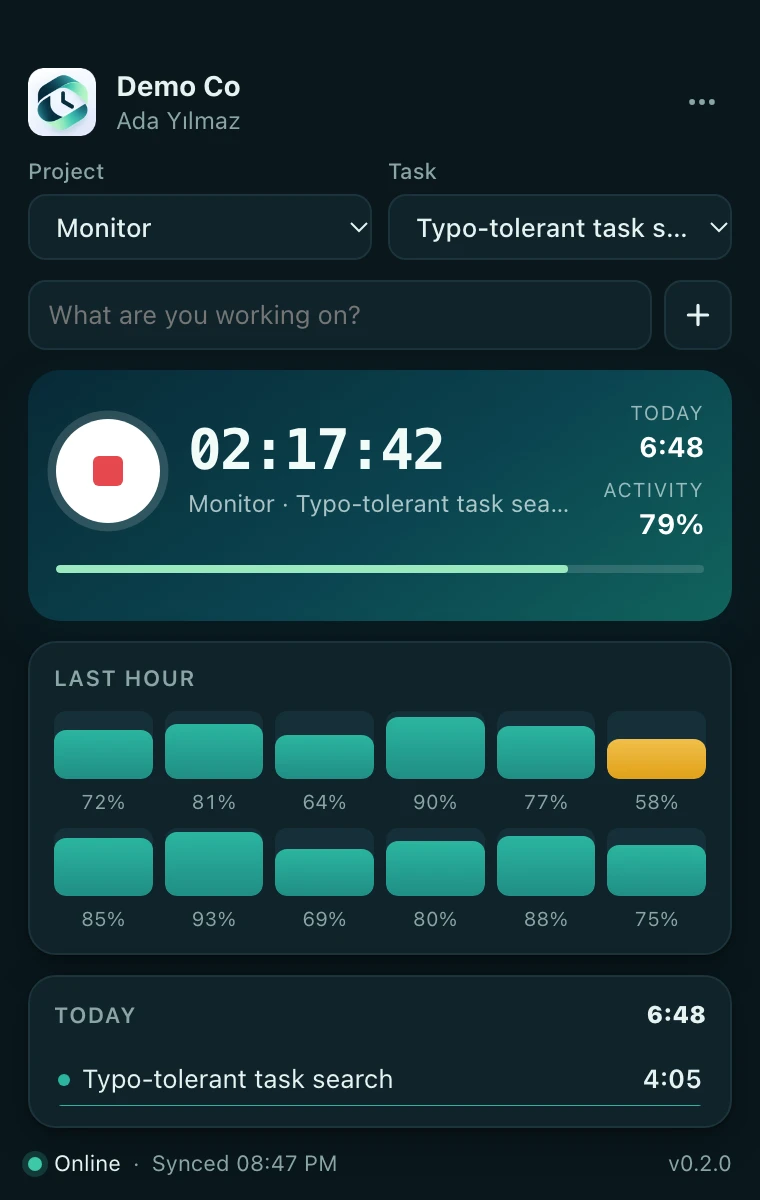
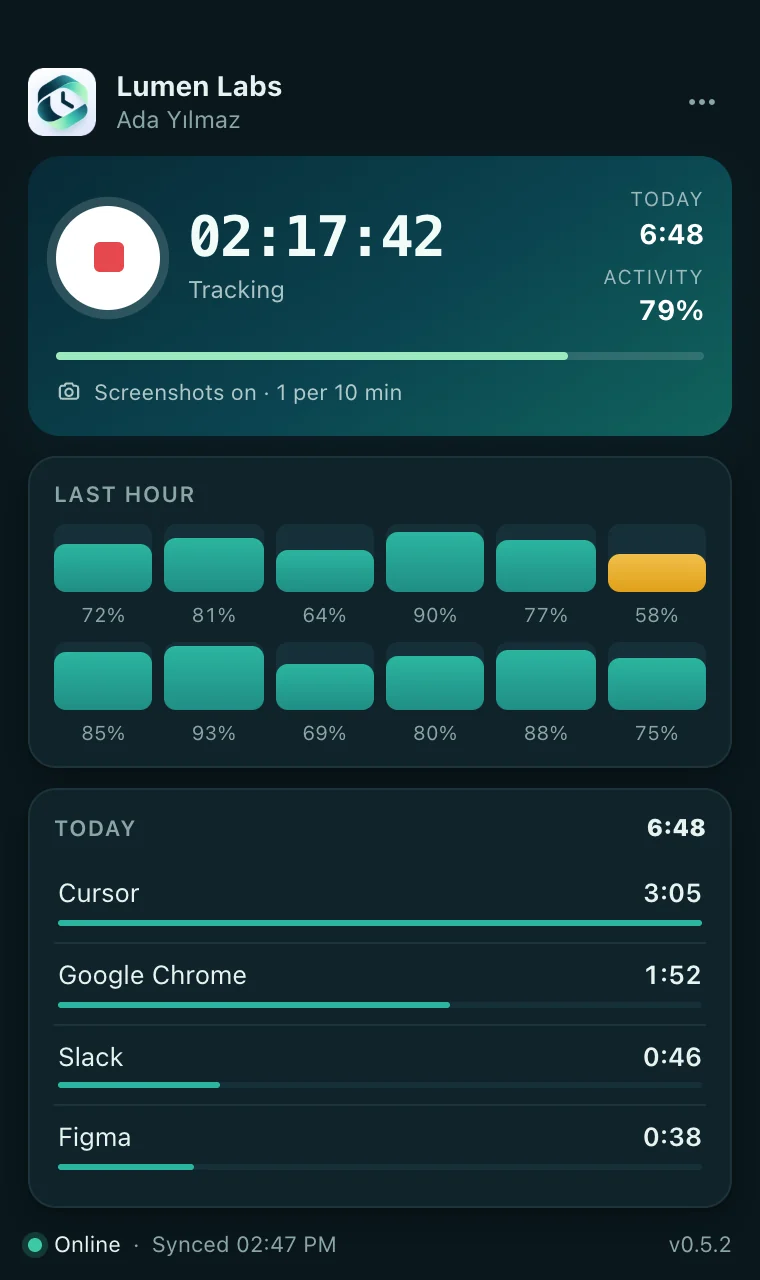
docs: product-focused README with new screenshots, Sentroy Storage and Chaby (#8)

diff --git a/README.md b/README.md
@@ -1,83 +1,128 @@
 <div align="center">
 
-<img src=".github/readme/icon.png" alt="" width="104">
+<img src=".github/readme/icon.png" alt="" width="96">
 
 # Sentroy Monitor
 
-### Time tracking your team can read, and nothing it shouldn't.
+**Open-source time and screen activity tracking for your team.**
 
-Start the timer and the tray app records time and an activity percentage. The web app turns
-that into timelines and reports. It never records keystrokes, window titles or what's on a page.
+See who is working on what, for how long, and how active the day was: in one timeline,
+with screenshots and reports, on your own server or ours.
 
-[**Download**](https://github.com/Sentroy-Co/sentroy-monitor-desktop/releases/latest) · [**Open the web app**](https://monitor.sentroy.com) · [**Self-host**](server/README.md) · [**Sentroy**](https://sentroy.com)
+[**Download**](https://github.com/Sentroy-Co/sentroy-monitor-desktop/releases/latest) · [**Open the web app**](https://monitor.sentroy.com) · [**Self-host**](server/README.md)
 
 <br>
 
-<img src=".github/readme/timeline.webp" alt="Timeline: ten-minute blocks with activity and the apps in use" width="70%">&nbsp;&nbsp;<img src=".github/readme/agent.webp" alt="Desktop agent with a running timer and the last hour of activity" width="26%">
+<img src=".github/readme/timeline.webp" alt="Timeline of a work day: ten-minute blocks with screenshots, activity and the apps in use" width="100%">
 
 </div>
 
----
+## Features
 
-### Get the app
+<table>
+<tr>
+<td width="62%" valign="top">
 
-| | Download | Notes |
-|---|---|---|
-| **macOS** | [`.dmg`](https://github.com/Sentroy-Co/sentroy-monitor-desktop/releases/latest) | Universal (Apple silicon + Intel), signed and notarized |
-| **Windows** | [`.exe` / `.msi`](https://github.com/Sentroy-Co/sentroy-monitor-desktop/releases/latest) | Windows 10 and 11, x64 |
-| **Linux** | [`.AppImage` / `.deb`](https://github.com/Sentroy-Co/sentroy-monitor-desktop/releases/latest) | Full tracking on X11; time only on Wayland |
+**⏱ Time tracking with one button.** Team members start and stop the timer in a small desktop app
+for macOS, Windows and Linux. Stepping away or ending the day takes one click, with an optional note.
 
-Sign in through your browser with a short code, so your password never goes into the app. Updates
-install with one click; the app never restarts on its own while you're tracking.
+**📸 Screenshots, done respectfully.** Turn them on per workspace, choose how often, and blur them on
+the computer before upload. People get a notice every time. Several displays become one image.
 
-### What it sees
+**📊 Timeline and reports.** Every ten minutes of the day with activity, apps and websites.
+Weekly charts, time per person, clock-in and clock-out times with averages, and CSV export.
 
-|  | Recorded | Never recorded |
-|---|---|---|
-| **Time** | Only while *you* have started the timer | Anything after you stop it |
-| **Input** | How many seconds had keyboard or mouse input | Which keys, what you typed, where you clicked |
-| **Apps** | The name of the app in front ("Figma") | Window titles, file names, documents |
-| **Websites** | Only if your company turns it on: the site name of the tab in front ("github.com"), on macOS | Pages, searches, anything on the page |
-| **Screen** | Screenshots, only if your company turns them on: you get a notice every time, and they can be blurred on your computer before upload. With several displays, one screenshot shows all of them side by side | Anything when screenshots are off (the default) |
+**🖥 Apps and websites.** See which apps were in front and, if you turn it on, which sites (by
+domain only). Never keystrokes, window titles or page contents.
 
-The agent needs no Accessibility or Input Monitoring permission. Data waits on disk while you're
-offline and syncs when you're back. [The full detail →](docs/PRIVACY.md)
+**🔒 Private by design.** Tracking runs only while the timer is on. Data waits on the computer
+while offline and syncs later. [What is recorded →](docs/PRIVACY.md)
 
-### The web app
+**🌍 Six languages.** English, Türkçe, Русский, 中文, Español and Bahasa Indonesia, in the apps and in
+notifications.
 
-- **Timeline**: every ten minutes of the day, with activity and the apps in use.
-- **Reports**: time by person and day, with CSV export.
-- **Settings**: screenshots on or off, how often, blur, idle limit, and how long data is kept.
-- Available in English, Türkçe, Русский, 中文, Español and Bahasa Indonesia.
+</td>
+<td width="38%" valign="top" align="center">
 
-### Run it your way
+<img src=".github/readme/agent.webp" alt="Desktop app with a running timer, the last hour of activity and today's apps" width="100%">
 
-**Hosted**: sign in at [monitor.sentroy.com](https://monitor.sentroy.com) with your Sentroy account.
-It's free; storing screenshots uses your Sentroy Storage plan.
+</td>
+</tr>
+</table>
 
-**Self-hosted**: one `docker compose up` gives you your own users, workspaces, SSO (OpenID Connect)
-and screenshot storage: Sentroy Storage in one click, any S3-compatible bucket, Firebase Storage or a
-local volume. [Set it up →](server/README.md)
+<img src=".github/readme/reports.webp" alt="Reports: tracked time per day, activity split and working hours per person" width="100%">
 
-<details>
-<summary><b>Build from source</b></summary>
+### Works with Sentroy
+
+<table>
+<tr>
+<td width="50%" valign="top">
+
+<img src=".github/readme/storage.webp" alt="" width="28" align="left">&nbsp;**Sentroy Storage**<br clear="left">
+
+Screenshots go to your Sentroy Storage bucket, connected in one click. Prefer your own? Any
+S3-compatible bucket, Firebase Storage or a local disk works too.
+
+<img src=".github/readme/storage-card.webp" alt="Sentroy Storage connected in Monitor settings" width="100%">
+
+</td>
+<td width="50%" valign="top">
+
+<img src=".github/readme/chaby.webp" alt="" width="28" align="left">&nbsp;**Chaby**<br clear="left">
+
+Clock-ins, breaks and end-of-day reports are posted to a Chaby channel of your choice, or sent to
+any webhook (Slack-compatible, signed).
+
+<img src=".github/readme/notify-card.webp" alt="Chaby channel connected in Monitor notification settings" width="100%">
+
+</td>
+</tr>
+</table>
+
+## Quick install
+
+**Hosted (easiest).** Sign in at [monitor.sentroy.com](https://monitor.sentroy.com) with your
+Sentroy account; your workspace and Sentroy Storage are set up for you. Then everyone installs the
+desktop app:
+
+| macOS | Windows | Linux |
+|:---:|:---:|:---:|
+| [Download `.dmg`](https://github.com/Sentroy-Co/sentroy-monitor-desktop/releases/latest)<br><sub>Apple silicon + Intel</sub> | [Download `.exe`](https://github.com/Sentroy-Co/sentroy-monitor-desktop/releases/latest)<br><sub>Windows 10 and 11</sub> | [`.AppImage` / `.deb`](https://github.com/Sentroy-Co/sentroy-monitor-desktop/releases/latest)<br><sub>X11; time only on Wayland</sub> |
+
+**Self-hosted.** Your own users, workspaces and single sign-on, with MongoDB or PostgreSQL:
+
+```bash
+curl -fsSLO https://raw.githubusercontent.com/Sentroy-Co/sentroy-monitor-desktop/main/server/docker-compose.yml
+echo "MONITOR_PUBLIC_URL=https://monitor.example.com" > .env
+echo "MONITOR_ENCRYPTION_KEY=$(openssl rand -base64 32)" >> .env
+docker compose up -d
+```
+
+Open `/setup` to create the first administrator. [Full self-host guide →](server/README.md)
+
+## How it works
+
+1. **Sign in.** Open the desktop app, click **Continue with Sentroy** (or enter your server's
+   address) and confirm the short code in your browser. Your password never goes into the app.
+2. **Start the timer.** The app records time, activity and the apps in front, plus screenshots
+   if your workspace turned them on. Stop it for a break or end the day with a note.
+3. **Follow the team.** Owners and admins see everyone's timeline, reports and working hours in the
+   web app; members see their own.
+4. **Set it up your way.** In **Settings**: screenshots and blur, website tracking, idle limit,
+   data retention, storage, and Chaby or webhook notifications. App updates install with one click.
 
 <br>
 
-Tauri 2 and Rust, with a plain HTML/JS interface in `ui/`.
+<div align="center">
 
-```bash
-npm install
-npm run dev     # run the app
-npm test        # Rust tests + UI tests
-```
+<a href="https://sentroy.com">
+  <picture>
+    <source media="(prefers-color-scheme: dark)" srcset=".github/readme/sentroy-logo-dark.svg">
+    <img src=".github/readme/sentroy-logo-light.svg" alt="Sentroy" width="150">
+  </picture>
+</a>
 
-To work against a local server, start it on port 3014 and enter `http://localhost:3014` on the
-sign-in screen. Linux needs WebKitGTK, appindicator and the X11/PipeWire headers listed in
-`.github/workflows/release.yml`.
+<sub>Sentroy Monitor is built and supported by <a href="https://sentroy.com">Sentroy</a>.<br>
+Fair Source under <a href="LICENSE">FSL-1.1-ALv2</a> (becomes Apache 2.0 after two years) · <a href="docs/DEVELOPMENT.md">Development</a> · <a href="docs/PRIVACY.md">Privacy</a></sub>
 
-Releases and auto-update signing: [docs/RELEASING.md](docs/RELEASING.md).
-
-</details>
-
-<div align="center"><sub>Part of <a href="https://github.com/Sentroy-Co">Sentroy</a> · Fair Source under <a href="LICENSE">FSL-1.1-ALv2</a> · <a href="https://sentroy.com">sentroy.com</a></sub></div>
+</div>

diff --git a/docs/DEVELOPMENT.md b/docs/DEVELOPMENT.md
@@ -1,0 +1,17 @@
+# Development
+
+The desktop agent is Tauri 2 and Rust, with a plain HTML/JS interface in `ui/`.
+
+```bash
+npm install
+npm run dev     # run the app
+npm test        # Rust tests + UI tests
+```
+
+To work against a local server, start it on port 3014 and enter `http://localhost:3014` on the
+sign-in screen. Linux needs WebKitGTK, appindicator and the X11/PipeWire headers listed in
+`.github/workflows/release.yml`.
+
+- Self-hosting the server: [server/README.md](../server/README.md)
+- What the agent records and sends: [PRIVACY.md](PRIVACY.md)
+- Releases and auto-update signing: [RELEASING.md](RELEASING.md)
